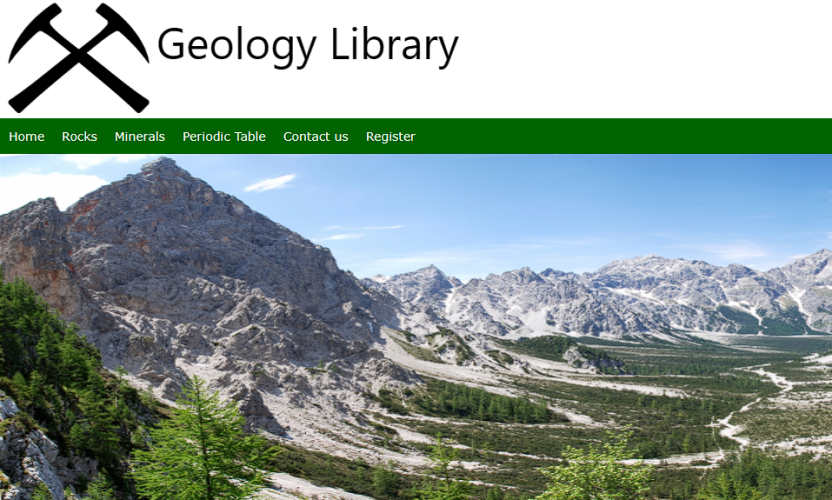
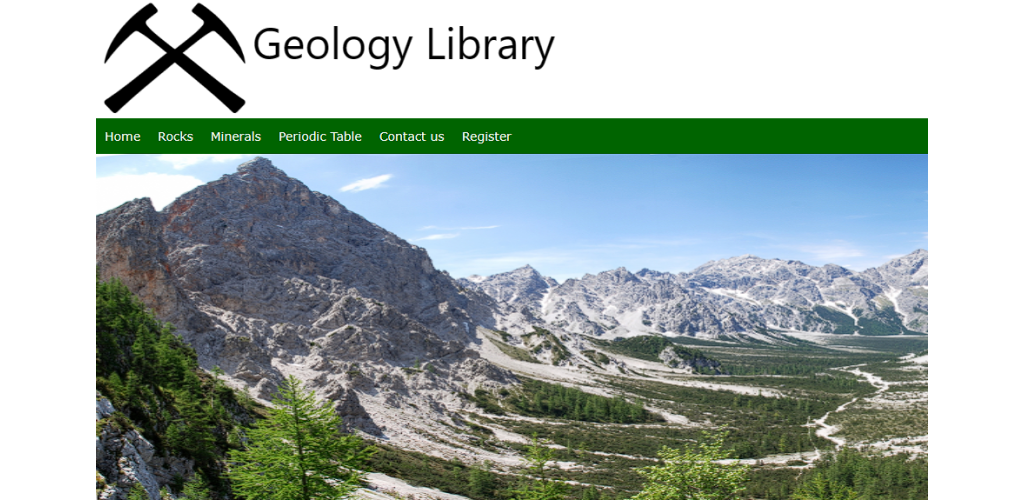
Update files

diff --git a/index.html b/index.html
@@ -41,25 +41,22 @@
         <a href="./web/index.html">
             <img class="mySlides" src="./images/geology_library_feature_graphic.png" alt="Geology Library feature graphic">
         </a>
-      
-        <div class="w3-row-padding w3-section">
-          <div id="dot_section" class="w3-col s4">            
-            <button class="demo w3-opacity w3-hover-opacity-off" style="cursor:pointer" onclick="currentDiv(0)">•</button>
-            <button class="demo w3-opacity w3-hover-opacity-off" style="cursor:pointer" onclick="currentDiv(1)">•</button>
-          </div>
-        </div>          
+    
+        <button id="dotBtn1" class="demo w3-opacity w3-hover-opacity-off" style="cursor:pointer" onclick="currentDiv(0)">•</button>
+        <button id="dotBtn2" class="demo w3-opacity w3-hover-opacity-off" style="cursor:pointer" onclick="currentDiv(1)">•</button>
+        
     </div>
     <script type="text/javascript" src="./script_image_slider.js"></script>
     
     <!-- Write here your description text -->
-    <div id="description_div">
-        <h2 id="div_title">Recent projects:</h2>
-        <p>
-            <ul id="div_ul">
+    <div id="main_div">
+        <h2 id="main_div_title">Recent projects:</h2>
+        <div id="sub_div">
+            <ul id="sub_div_ul">
                 <li><a href="./android/RefugeeGuideCyprus/README.md">Refugee Guide Cyprus (android<img id="android_pic" src="./images/android.png">)</a></li>
                 <li><a href="./web/geologylibrary/index.html">Geology Library (web <img id="web_pic" src="./images/www.png">)</a></li>
             </ul>
-        </p>
+        </div>
     </div>
     <!-- Footer -->
     <footer>

diff --git a/style_body.css b/style_body.css
@@ -16,6 +16,7 @@ header{
 
 #header_image,#header_title{
     display: inline-block;
+    position: relative;
 }
 
 /* Navigation bar */
@@ -39,7 +40,7 @@ nav li:last-child {
   }
   
 nav li a {
-    display: block;
+    display: inline-block;
     color: white;
     text-align: center;
     padding: 14px 16px;
@@ -55,29 +56,48 @@ nav li a:hover {
 .mySlides {
     padding: 1%;
     display: none;
-    max-height: 500px;
-    height: 500px;
+    max-height: 400px;
+    height: 50%;
     width: 100%;
     border-radius: 20px;
 }
 
 #dot_section{
+    display: table;
+    position: relative;
+    left: 45%;
+    height: 100%;
+    width: 100%;
+}
+
+#dotBtn1,#dotBtn2{
+    display: inline-block;
     position: relative;
     left: 45%;
 }
 
+button{
+    border: none;
+    background: none;
+}
 
 /* Description */
-#description_div{
+#main_div{    
+    background-color: rgb(31, 32, 34);
+    color: white;
+    text-align: center;
+}
+
+#sub_div{
     padding: 1%;
-    background-color: rgb(47, 59, 228);
+    background-color: rgb(38, 94, 206);
     border-top-left-radius: 20px;
     border-top-right-radius: 20px;
     color: white;
     text-align: center;
 }
 
-#div_ul, #div_title {
+#main_div_title, #sub_div_ul  {    
     display: inline-block;
     text-align: left;
     list-style-position: inside;
@@ -91,6 +111,7 @@ nav li a:hover {
     color: white;
 }
 
+/* about */
 td {padding: 12px}
 
 /* Footer */

diff --git a/android/index.html b/android/index.html
@@ -30,13 +30,13 @@
           </ul>          
     </nav>
     <!-- Write here your description text -->
-    <div id="description_div">
+    <div id="main_div">
         <img id="android_pic" src="../images/android.png" style="height: 40px;">
-        <h2 id="div_title">Android Applications:</h2>
-        <p>
-        <ol id="div_ul">
-            <li><a href="https://github.com/tcsapin/tcsapin.github.io/tree/main/android/RefugeeGuideCyprus">Refugee Guide Cyprus</a></li>
-        </ol>
+        <h2 id="main_div_title">Android Applications:</h2>
+        <div id="sub_div">
+            <ol id="sub_div_ul">
+                <li><a href="https://github.com/tcsapin/tcsapin.github.io/tree/main/android/RefugeeGuideCyprus">Refugee Guide Cyprus</a></li>
+            </ol>
         </p>
     </div>
     <!-- Footer -->

diff --git a/web/index.html b/web/index.html
@@ -30,15 +30,15 @@
           </ul>          
     </nav>
     <!-- Write here your description text -->
-    <div id="description_div">
+    <div id="main_div">
         <img id="android_pic" src="../images/www.png" style="height: 40px;">
-        <h2 id="div_title">Web Applications:</h2>
-        <p>
-            <ol id="div_ul">
+        <h2 id="main_div_title">Web Applications:</h2>
+        <div id="sub_div">
+            <ol id="sub_div_ul">
                 <li><a href="https://tcsapin.github.io/web/geologylibrary/">Geology Library</a></li>
                 <li><a href="https://github.com/tcsapin/tcsapin.github.io/tree/main/web/geologylibrary">Geology Library</a></li>
             </ol>
-        </p>
+        </div>
     </div>
     <!-- Footer -->
     <footer>
